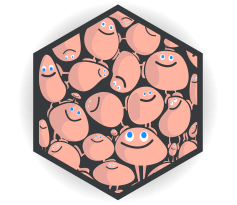
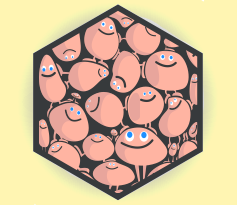
summer edition

diff --git a/note/2020/12/rnd-reviews/index.html b/note/2020/12/rnd-reviews/index.html
@@ -43,8 +43,28 @@
 <h1 id="moving-pictures">Moving Pictures</h1>
 
 <ul>
+<li><a href="https://www.imdb.com/title/tt0110413/?ref_=nm_knf_i3">Léon: The Professional</a>. Sometimes I think that the movies in the 90s where so good. Léon is a great example why I often return to this thought.<br /></li>
+<li><a href="https://www.imdb.com/title/tt0452608/?ref_=fn_al_tt_1">Death Race</a>. Mad Max for people who unironically like &ldquo;The Fast and the Furios XYZ&rdquo;.</li>
+<li><a href="https://www.imdb.com/title/tt1392190/?ref_=fn_al_tt_1">Mad Max: Fury Road</a>. A visual spectacle and actually a surprisingly cool premise. One of the best &ldquo;car-movies&rdquo; I have seen.<br /></li>
+<li><a href="https://www.imdb.com/title/tt0293662/?ref_=tt_sims_tt">The Transporter</a>. Great action movie which &mdash; in my eyes &mdash; cemented the prototype of a Jason Statham role.</li>
+<li><a href="https://www.imdb.com/title/tt1320253/?ref_=fn_al_tt_1">The Expendables 1, 2 &amp; 3</a>. Meh.</li>
+<li><a href="https://www.imdb.com/title/tt0133093/?ref_=tt_sims_tt">The Matrix</a>. Difficult now to see how influential this movie was. Albeit it did not age that well (partly because of the follow up movies, I think), Matrix is still great for what it was.</li>
+<li><a href="https://www.imdb.com/title/tt0434409/?ref_=tt_sims_tt">V for Vendetta</a>. Matrix without the computers and political instead of transcendental philosophy. One of Natalie Portmans best roles. I can recommend the movie.<br /></li>
+<li><a href="https://www.imdb.com/title/tt5614844/?ref_=nv_sr_srsg_0">Cloak &amp; Dagger</a>. At its best the series is mediocre, at its worst it is bad.<br /></li>
+<li><a href="https://www.imdb.com/title/tt6905542/?ref_=nm_flmg_act_6">The Dark Crystal: Age of Resistance</a>. This is an incredible unique and wonderful series. Please watch if you are not taken aback by the style and like fantasy.</li>
+<li><a href="https://www.imdb.com/title/tt3890160/?ref_=tt_sims_tt">Baby Driver</a>. Thisis a great, great car-chase movie. The heist aspect is also nice, but you want to watch this movie because of the chase scenes.</li>
+<li><a href="https://www.imdb.com/title/tt4123430/?ref_=nm_flmg_dr_4">Fantastic Beasts: The Crimes of Grindelwald</a>. I know that a lot of people enjoyed this movie. I am not one of them.</li>
+<li><a href="https://www.imdb.com/title/tt3183660/?ref_=nm_knf_i1">Fantastic Beasts and Where to Find Them</a>. The visuals and settings are great. Everything else is forgettable, bland and boring.</li>
+<li><a href="https://www.imdb.com/title/tt2802144/?ref_=nm_knf_i2">Kingsman: The Secret Service</a>. A completely over the top action movie. If you can stomach this kind of movie &mdash; which I do &mdash; than its actually great.</li>
+<li><a href="https://www.imdb.com/title/tt0175880/?ref_=tt_sims_tti">Magnolia</a>. A set of intricately interwoven stories. Hard too watch, and yet one of my favorite movies. So, i recommend to watch it, but not too often. There are some truly incredible performances to be seen.</li>
+<li><a href="https://www.imdb.com/title/tt0087843/?ref_=nm_knf_i2">Once Upon a Time in America</a>. This is a great movie. Maybe a bit too long and to slow for today&rsquo;s audience/viewing-customs. But, for me, it will always be a classic.</li>
+<li><a href="https://www.imdb.com/title/tt1250777/?ref_=nm_knf_i3">Kick-Ass</a>. One of the better superhero movies.</li>
+<li><a href="https://www.imdb.com/title/tt0829482/?ref_=nm_flmg_act_45">Superbad</a>. One of my favorite comedies. It is perfect for what it is. Michael Cera is Michael Cera. Jonnah Hill is Nonah Hill. And, Bill Hader steals the show.</li>
+<li><a href="https://www.imdb.com/title/tt1156398/?ref_=nm_knf_i4">Zombieland</a>. A good little zombie movie.</li>
+<li><a href="https://www.imdb.com/title/tt0110632/?ref_=nm_knf_i3">Natural Born Kilelrs</a>. Albeit the script is by Quetin Tarantino this movie has too much Oliver Stone in it for me.</li>
 <li><a href="https://www.imdb.com/title/tt8784956/?ref_=nv_sr_srsg_0">Ava</a>. Yeah, I don&rsquo;t know. The movie is not necessary bad, but its not good either. I guess the best part are fight-choreographies.</li>
-<li><a href="https://www.imdb.com/title/tt8367814/?ref_=fn_al_tt_1">The Gentlemen</a>. Guy Ritchie at its best. Pretty much everything I love about his movies, without much of the bad.</li>
+<li><a href="https://www.imdb.com/title/tt8367814/?ref_=fn_al_tt_1">The Gentlemen</a>. I guess this is Guy Ritchie at its best. Pretty much everything I like about his movies, without much of the bad.</li>
+<li><a href="https://www.imdb.com/title/tt1638355/?ref_=nm_knf_i4">The Man from U.N.C.L.E.</a>. A good agent movie with the actor from these awful new-age Superman movies. For my personal taste the movie a bit too much of a caricature and a bit too dynamic. But probably that is just me.</li>
 <li><a href="https://www.imdb.com/title/tt7556122/?ref_=nv_sr_srsg_0">The Old Guard</a>. This movie is definitely not for me. I do not hate it, but I definitely do not like it.</li>
 <li><a href="https://www.imdb.com/title/tt2406566/?ref_=nm_flmg_act_16">Atomic Blonde</a>. A good movie if one is in the mood for action. I like the style, the fights and the setting.</li>
 <li><a href="https://www.imdb.com/title/tt7456310/?ref_=nm_flmg_wr_4">Anna</a>. Very similar to Atomic Blonde, but not so fresh. Still good.</li>
@@ -58,7 +78,14 @@
 <li><a href="https://www.imdb.com/title/tt5198068/">Wolfwalkers</a>. The movie is great. It has some pacing problems and the style is almost a bit to loose at some point. But, I still love the art-style. Its so great and unique and expressive and beautiful. I thus think that Wolfwalkers is a must see for everyone who likes animation in some way or another.</li>
 <li><a href="https://www.imdb.com/title/tt7126948/">Wonder Women 1984</a>. Oh god, no. Please stop this already.</li>
 <li><a href="https://www.imdb.com/title/tt1375666/?ref_=hm_fanfav_tt_15_pd_fp1">Inception</a>. This movie gets a thumps up. I don&rsquo;t think it is as smart as everyone claims it is. Yet, Inception is clever and well made.</li>
-<li><a href="https://www.imdb.com/title/tt0298203/?ref_=nv_sr_srsg_0">8 Mile</a>. This is a much better movie than commonly thought. I admit that it is not great cinema. But, it is also not the junk that some pretend it is.</li>
+<li><a href="https://www.imdb.com/title/tt1178663/?ref_=nm_flmg_act_16">Whatever Works</a>. The movie works for me. One of the better Woody Allen movies. I am not sure about Larry David. It seems that he is not as funny as he normally is. But ok; good movie.</li>
+<li><a href="https://www.imdb.com/title/tt7139936/?ref_=nm_flmg_dr_2">A Rainy Day in New York</a>. Surprisingly good movie for people who like Woody Allen movies.  I do not like the setting too much.</li>
+<li><a href="https://www.imdb.com/title/tt2870756/?ref_=tt_sims_tt">Magic in the Moonlight</a>. I do not like the movie too much. I like all the actors and the ideas are nice &mdash; but I feel like the premise is not my pair of shoes.</li>
+<li><a href="https://www.imdb.com/title/tt1859650/?ref_=nm_flmg_dr_9">To Rome With Love</a>. Very enjoyable movie, but for me somehow overshadowed by Midnight in Paris.</li>
+<li><a href="https://www.imdb.com/title/tt1605783/?ref_=nm_flmg_dr_10">Midnight in Paris</a>. Great, great, great movie. Easy going, witty, funny, thoughtful but not too ensnared. Lovely setting.<br /></li>
+<li><a href="https://www.imdb.com/title/tt4513674/?ref_=nm_flmg_dr_5">Café Society</a>. This movie is also a mixed bag for me. I enjoy the premise, the style and the humor, but I did not enjoy it that much. Maybe its to rushed?</li>
+<li><a href="https://www.imdb.com/title/tt2334873/?ref_=nm_flmg_dr_8">Blue Jasmine</a>. This would be a great movie if the ending would be a little bit better. The way it is, however, it is just a good one.</li>
+<li><a href="https://www.imdb.com/title/tt0298203/?ref_=nv_sr_srsg_0">8 Mile</a>. This is a much better movie than commonly thought. I admit that it is not great cinema. The movie is also not the junk that some pretend it is.</li>
 <li><a href="https://www.imdb.com/title/tt1972591/?ref_=nm_knf_i1">King Arthur: Legend of the Sword</a>. No. Please no! Nooooo!</li>
 <li><a href="https://www.imdb.com/title/tt0257360/?ref_=fn_al_tt_1">About Schmidt</a>. Better than I expected.</li>
 <li><a href="https://www.imdb.com/title/tt0217505/?ref_=fn_al_tt_1">Gangs of New York</a>. I did enjoy the movie, but it did not leave a lasting impression.</li>
@@ -72,8 +99,9 @@
 <li><a href="https://www.imdb.com/title/tt0088763/?ref_=nm_knf_i1">Back to the Future </a>. Classic. Very enjoyable movie.</li>
 <li><a href="https://www.imdb.com/title/tt0319061/?ref_=nm_flmg_dr_14">Big Fish </a>. &lt;3 &lt;3 &lt;3 One of my favorite movies &lt;3 &lt;3 &lt;3</li>
 <li><a href="https://www.imdb.com/title/tt0468569/?pf_rd_m=A2FGELUUNOQJNL&amp;pf_rd_p=e31d89dd-322d-4646-8962-327b42fe94b1&amp;pf_rd_r=DCT5YV01C20Z2HCMK04R&amp;pf_rd_s=center-1&amp;pf_rd_t=15506&amp;pf_rd_i=top&amp;ref_=chttp_tt_4">The Dark Knight</a>. Very good movie. Maybe a bit overrated? Liked it a lot at first, but wouldn&rsquo;t watch it anymore (which is not a particularly good sign).</li>
-<li><a href="https://www.imdb.com/title/tt0137523/?ref_=tt_sims_tt">Fight Club</a>. One of the movies that influenced me the most. Super good and unique.
--<a href="https://www.imdb.com/title/tt0110912/?ref_=tt_sims_tt">Pulp Fiction</a>. This is a great movie. Not my favorite Tarantino, but still very watchable.</li>
+<li><a href="https://www.imdb.com/title/tt0137523/?ref_=tt_sims_tt">Fight Club</a>. One of the movies that influenced me the most. Super good and unique.</li>
+<li><a href="https://www.imdb.com/title/tt7131622/?ref_=hm_tpks_tt_i_9_pd_tp1_cp">Once Upon a Time&hellip; In Hollywood</a>. This one is probably more interesting for people from USA (or LA specifically), who are more familiar with the whole backstory. But, even if you are like me &mdash; and do not know anything about it &mdash; it is still good movie and a lot of fun.</li>
+<li><a href="https://www.imdb.com/title/tt0110912/?ref_=tt_sims_tt">Pulp Fiction</a>. This is a great movie. Not my favorite Tarantino, but still very watchable.</li>
 <li><a href="https://www.imdb.com/title/tt10763164/?ref_=nm_flmg_wr_25">Reservoir Dogs</a>. Almost more a play than a movie. Watch it if you like this sort of thing. I love it.</li>
 <li><a href="https://www.imdb.com/title/tt0116367/?ref_=nm_flmg_wr_19">From Dusk till Dawn</a>. A uncut gem. I do enjoy the first part much more than the second. Nevertheless, I do appreciate the movie as a whole.</li>
 <li><a href="https://www.imdb.com/title/tt0108399/?ref_=nm_flmg_wr_24">True Romance</a>. Fun movie. Easy to watch but nothing amazing.</li>
@@ -88,12 +116,17 @@
 <p>Sometimes I do read:</p>
 
 <ul>
+<li><em>Abelson (1995): Statistics As Principled Argument.</em> I wanted to like this book, but I could not. While I agree with the basic idea (i.e, that scientist statistics should use statistics as tools to strengthen their arguments), I disagree with many &mdash; if not most &mdash; of the provides rationales and examples. It is also written in a way that is much to self righteous.<br /></li>
+<li><em>Jean Jullien (2016): Modern Life.</em> A bit on the short side. Yet most pictures are small, self contained parables about modern life. The not-so good illustrations are still imaginative and drawn in a pleasant way.</li>
+<li><em>Priest (2017): Logic: A Very Short Introduction.</em> Very nice book. I think the different chapters are best enjoyed with some pause between each one (even or maybe even because that will necessaite some backtracking trough the short booklet).<br /></li>
+<li><em>Samir (2016): Philosophy of Science: A Very Short Introduction.</em> I liked it very much so. Very short, but well argued. Not sure how much prior knowledge is useful to enjoy the book.<br /></li>
 <li><em>Polan (2018): A Place of My Own.</em> A very good book if you are interested in architecture and building (as a hobby I guess). Poetic, complex, well-paced. And, exactly of the right length for such a book.</li>
 <li><em>Bitmap Books (2019): The Art of Point-and-Click Adventure Games.</em> A beautiful book. An easy read. A joyful dive into nostalgia. Not very meaty.</li>
 <li><em>Cleave (2014): Royal London Sketchbook.</em> I would recommend th is book only for a small niche audience, that are interested in the technique. Which is: Photos post-processed to appear like some form of painting.</li>
 <li><em>Burtynsky (2013): Water.</em> I have mixed feelings about this one. I think there could be more pictures in there. The accompanying texts could be more refined. Perhaps even poetic. They are not. However, the pictures are breathtaking. The overall concept is great. And, the book is as inspiring as I would have hoped.<br /></li>
 <li><em>Fortrey (2005): The Earth: An Intimate History.</em> A must read for any earth-scientist. Care if you are not a native speaker since the language is suprisingly sophisticated (very gentle too).</li>
 <li><em>Taleb (2007): Fooled by Randomness.</em> A gem.</li>
+<li><em>Taleb (2016): The Bed of Procstes.</em> My favorite book by Taleb and a great influence on my thinking.</li>
 <li><em>Page (2018) The Model Thinker.</em> Very enjoyable.</li>
 <li><em>Proctor &amp; Schiebinger (ed, 2008) Proctor, R: Agnotology.</em> More interesting than I expected, less than I hoped.</li>
 <li><em>Ende (1994) Zettelkasten.</em> Wow!</li>
@@ -145,15 +178,18 @@
 
 <p>Also reviewer can be reviewed.</p>
 
+<h2 id="from-youtube">From youtube</h2>
+
 <ul>
-<li><a href="https://www.youtube.com/user/RedLetterMedia">Youtube: RedLetterMedia</a>. Easily the best reviewers of all things (modern) cinema. Also, very, very funny.</li>
-<li><a href="https://www.youtube.com/c/TeohYiChie">Youtube: Teoh Yi Chie</a>. Thoughtful reviews of art-related stuff. Artbooks, papers, pens, digital drawing tools, etc.). Can recommend.</li>
-<li><a href="https://www.youtube.com/c/mkbhd">Youtube: Marques Brownlee</a>. Extremely well produced Youtube channel reviewing gadgets and other tech related products. For me it often feels too smooth. Sometimes too uncritical. In general goodish.<br /></li>
-<li><a href="https://www.youtube.com/AngryNintendoNerd">Youtube: Cinemassacre</a>. Game reviews and some movie stuff. The &ldquo;angry video game nerd&rdquo; was great back in the day. The whole channel is not what it one was. That is ok. That is time. The reviews you can find there are very personal and opinionated. Sometimes still funny. I would not probably not recommend the channel, but its definitely something to watch on a rainy day.</li>
+<li><a href="https://youtu.be/tltBHjmIUJ0">James Hoffmann</a>. Pretty much everything I ever wanted to know about coffee and much, much more. Each video is very well made, and each topic is presented in a light and enjoyable way.</li>
+<li><a href="https://www.youtube.com/user/RedLetterMedia">RedLetterMedia</a>. Easily the best reviewers of all things (modern) cinema. Also, very, very funny.</li>
+<li><a href="https://www.youtube.com/c/TeohYiChie">Teoh Yi Chie</a>. Thoughtful reviews of art-related stuff. Artbooks, papers, pens, digital drawing tools, etc.). Can recommend.</li>
+<li><a href="https://www.youtube.com/c/mkbhd">Marques Brownlee</a>. Extremely well produced Youtube channel reviewing gadgets and other tech related products. For me it often feels too smooth. Sometimes too uncritical. In general goodish.<br /></li>
+<li><a href="https://www.youtube.com/AngryNintendoNerd">Cinemassacre</a>. Game reviews and some movie stuff. The &ldquo;angry video game nerd&rdquo; was great back in the day. The whole channel is not what it one was. That is ok. That is time. The reviews you can find there are very personal and opinionated. Sometimes still funny. I would not probably not recommend the channel, but its definitely something to watch on a rainy day.</li>
 <li><a href="https://www.youtube.com/user/Matthewmatosis">Matthewmatosis</a>. Probably the best game-reviewer on Youtube. Thoughtful, in-depth, long, and critical. Also the channel which gave me the idea to frame this note as micro reviews.</li>
-<li><a href="https://www.youtube.com/channel/UCHB9VepY6kYvZjj0Bgxnpbw">Youtube: Henry AI Labs</a>. Great overviews over Machine Learning topics and papers. I do not appreciate the shorter &mdash; 2-5 minutes &mdash; videos. The longer ones &mdash; 15-30 minutes &mdash; are quite nice however.</li>
-<li><a href="https://www.youtube.com/c/YannicKilcher">Youtube: Yannic Kilcher</a>. Best presenter of Machine Learning papers. Opinionated and smart. Must watch, there is a lot to learn here.</li>
-<li><a href="https://www.youtube.com/channel/UCul0hqYdXADxADyoIku4p5g">Youtube: The Art and Makign of</a>. Best reviewer of &ldquo;the art of <em>xyz</em> books&rdquo; and &ldquo;making of <em>xyz</em> books&rdquo; that I know of. Very opinionated and very thorough.</li>
+<li><a href="https://www.youtube.com/channel/UCHB9VepY6kYvZjj0Bgxnpbw">Henry AI Labs</a>. Great overviews over Machine Learning topics and papers. I do not appreciate the shorter &mdash; 2-5 minutes &mdash; videos. The longer ones &mdash; 15-30 minutes &mdash; are quite nice however.</li>
+<li><a href="https://www.youtube.com/c/YannicKilcher">Yannic Kilcher</a>. Best presenter of Machine Learning papers. Opinionated and smart. Must watch, there is a lot to learn here.</li>
+<li><a href="https://www.youtube.com/channel/UCul0hqYdXADxADyoIku4p5g">The Art and Making of</a>. Best reviewer of &ldquo;the art of <em>xyz</em> books&rdquo; and &ldquo;making of <em>xyz</em> books&rdquo; that I know of. Very opinionated and very thorough.</li>
 </ul>
 
 </main>
@@ -167,7 +203,7 @@
 
   
   <hr/>
-  <a href="https://danklotz.github.io/"><img src="../project-fig_sw.png" alt="hello" /></a>
+  <a href="https://danklotz.github.io/"><img src="../project-fig.png" alt="hello" /></a>
   
   </center>
   </footer>

diff --git a/css/style.css b/css/style.css
@@ -4,6 +4,7 @@ body {
   margin: auto;
   padding: 1em;
   line-height: 1.5em;
+  background-color: #fff5b2;
 }
 
 /* header and footer areas */
@@ -16,9 +17,9 @@ body {
     height: 273px;
   text-decoration: none;
   font-size: 1.2em;
-  background: linear-gradient(to right, #fff,#fff, #eee, #fff, #fff );
   z-index: -10;
 }
+
 /* Good Gradient alternatives:
 #4b4653,#6d6875, #6d6875, #6d6875, #4b4653
 #b5838d, #e5989b, #ffb4a2
@@ -29,14 +30,14 @@ body {
 .menu {line-height: 1.60em;}
 /*.menu li { display: inline-block;} */
 .menu a {
-  color: #fff;
+  color: #111155;
   padding: 5px;
   border-radius: 5px;
 }
 .menu a:hover {
   text-decoration: none;
   font-weight: bold;
-  color: #ff00ff;
+  color: #db9d90;
   padding: 5px;
   border-radius: 5px;
 }
@@ -59,7 +60,7 @@ hr {
 /* code */
 pre {
   border: 1px solid #ddd;
-  box-shadow: 5px 5px 5px #eee;
+  box-shadow: 5px 5px 5px #ddd;
   padding: 1em;
   overflow-x: auto;
 }
@@ -84,22 +85,11 @@ table thead th { border-bottom: 1px solid #ddd; }
 th, td { padding: 5px; }
 thead, tfoot, tr:nth-child(even) { background: #eee }
 
-/* speech-bubble css: */
+/* speech-bubble css:
 .bubble{
    position:relative;
-   padding: 3px;
-   background: #111155;
-   color: #fff;
-   border-radius: 15px;
+   padding: 2px;
+   background: #373a3c;
+   border-radius: 0px;
    text-align: left;
-}
-
-.bubble:before{
-   position:absolute;
-   content: "";
-   top:11px;left:-17px;
-   border-width: 5px 20px 5px 0px;
-   border-color: #111155;
-   border-color: transparent  #111155;
-   border-style: solid;
- }
+}*/

diff --git a/css/fonts.css b/css/fonts.css
@@ -14,10 +14,10 @@
 }
 
 /* color options for note-categories */
-div#category a:link { color: #897789; }
-div#category a:visited { color: #AA99AA; }
-div#category a:hover { color: #330033; }
-div#category a:active { color: #330033; }
+div#category a:link { color: #111155; }
+div#category a:visited { color: #3399aa; }
+div#category a:hover { color: #00eeff; }
+div#category a:active { color: #00eeff; }
 
 body {
   font-family: 'Cormorant Garamond', serif;
@@ -32,7 +32,7 @@ body {
 }
 
 a {
-  color:#888888;
+  color:#111155;
   text-decoration: none;
   background-color: transparent;
   -webkit-text-decoration-skip: objects;
@@ -40,7 +40,7 @@ a {
 
 a:hover {
   text-decoration: underline;
-  color: #ff00ff;
+  color: #ed6dbd;
 }
 
 a:not([href]):not([tabindex]) {
@@ -67,7 +67,7 @@ h1, h2, h3, h4, h5, h6,
 }
 
 h1, .h1 {
-  font-size: 2.3rem;
+  font-size: 2.5rem;
 }
 
 h2, .h2 {

diff --git a/note/2020/05/media/index.html b/note/2020/05/media/index.html
@@ -296,7 +296,7 @@ This happens not by explicit design, but arises as a natural consequence of how 
 
   
   <hr/>
-  <a href="https://danklotz.github.io/"><img src="../project-fig_sw.png" alt="hello" /></a>
+  <a href="https://danklotz.github.io/"><img src="../project-fig.png" alt="hello" /></a>
   
   </center>
   </footer>

diff --git a/note/2017/04/intro/index.html b/note/2017/04/intro/index.html
@@ -72,7 +72,7 @@ will however depend on how everything plays out.</li>
 
   
   <hr/>
-  <a href="https://danklotz.github.io/"><img src="../project-fig_sw.png" alt="hello" /></a>
+  <a href="https://danklotz.github.io/"><img src="../project-fig.png" alt="hello" /></a>
   
   </center>
   </footer>

diff --git a/projects/index.html b/projects/index.html
@@ -69,7 +69,7 @@ Some selected sources for autonomous learning.</p>
 
   
   <hr/>
-  <a href="https://danklotz.github.io/"><img src="../project-fig_sw.png" alt="hello" /></a>
+  <a href="https://danklotz.github.io/"><img src="../project-fig.png" alt="hello" /></a>
   
   </center>
   </footer>

diff --git a/note/2018/09/p5js-particles1/index.html b/note/2018/09/p5js-particles1/index.html
@@ -127,7 +127,7 @@ ParticleSystem.prototype.run = function() {
 
   
   <hr/>
-  <a href="https://danklotz.github.io/"><img src="../project-fig_sw.png" alt="hello" /></a>
+  <a href="https://danklotz.github.io/"><img src="../project-fig.png" alt="hello" /></a>
   
   </center>
   </footer>

diff --git a/note/2017/10/visualizing-uncertainty/index.html b/note/2017/10/visualizing-uncertainty/index.html
@@ -119,7 +119,7 @@ Here are some recent examples:</p>
 
   
   <hr/>
-  <a href="https://danklotz.github.io/"><img src="../project-fig_sw.png" alt="hello" /></a>
+  <a href="https://danklotz.github.io/"><img src="../project-fig.png" alt="hello" /></a>
   
   </center>
   </footer>

diff --git a/note/2021/03/aphorisms/index.html b/note/2021/03/aphorisms/index.html
@@ -56,7 +56,7 @@ We just have to learn to look.</p>
 
   
   <hr/>
-  <a href="https://danklotz.github.io/"><img src="../project-fig_sw.png" alt="hello" /></a>
+  <a href="https://danklotz.github.io/"><img src="../project-fig.png" alt="hello" /></a>
   
   </center>
   </footer>

diff --git a/note/2017/12/p5js-floating-sticks/index.html b/note/2017/12/p5js-floating-sticks/index.html
@@ -248,7 +248,7 @@ GrowingSticks.prototype = {
 
   
   <hr/>
-  <a href="https://danklotz.github.io/"><img src="../project-fig_sw.png" alt="hello" /></a>
+  <a href="https://danklotz.github.io/"><img src="../project-fig.png" alt="hello" /></a>
   
   </center>
   </footer>

diff --git a/note/2017/11/p5js-star/index.html b/note/2017/11/p5js-star/index.html
@@ -170,7 +170,7 @@ rotate(frameCount / 50.0);
 
   
   <hr/>
-  <a href="https://danklotz.github.io/"><img src="../project-fig_sw.png" alt="hello" /></a>
+  <a href="https://danklotz.github.io/"><img src="../project-fig.png" alt="hello" /></a>
   
   </center>
   </footer>

diff --git a/note/2017/12/p5js-linegrow/index.html b/note/2017/12/p5js-linegrow/index.html
@@ -226,7 +226,7 @@ GrowingLine.prototype = {
 
   
   <hr/>
-  <a href="https://danklotz.github.io/"><img src="../project-fig_sw.png" alt="hello" /></a>
+  <a href="https://danklotz.github.io/"><img src="../project-fig.png" alt="hello" /></a>
   
   </center>
   </footer>
